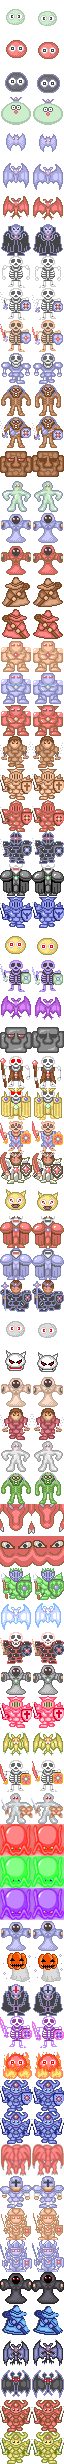
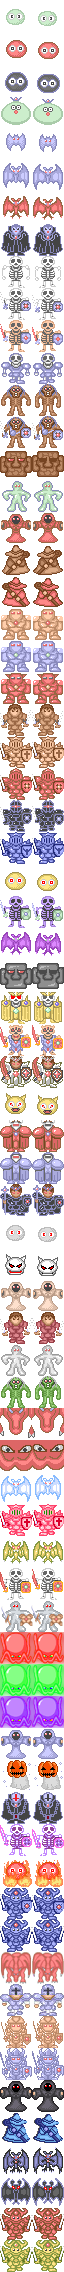
delete unused material 6

diff --git a/project/enemys.js b/project/enemys.js
@@ -13,7 +13,6 @@ var enemys_fcae963b_31c9_42b4_b48c_bb48d09f3f80 =
 	"zombie": {"name":"魔性人","hp":400,"atk":175,"def":70,"money":8,"exp":5,"point":0,"special":0},
 	"zombieKnight": {"name":"驯化魔性人","hp":550,"atk":275,"def":70,"money":12,"exp":5,"point":0,"special":0},
 	"rock": {"name":"有生土墙","hp":500,"atk":200,"def":170,"money":10,"exp":15,"point":0,"special":[]},
-	"bluePriest": {"name":"初级法师","hp":100,"atk":120,"def":0,"money":3,"exp":0,"point":1,"special":[9]},
 	"redPriest": {"name":"狂暴施咒者","hp":450,"atk":280,"def":100,"money":19,"exp":12,"point":0,"special":[1,2,22],"damage":1000},
 	"brownWizard": {"name":"蹩脚巫师","hp":100,"atk":35,"def":30,"money":5,"exp":3,"point":0,"special":[2],"value":null,"range":2},
 	"redWizard": {"name":"熟练巫师","hp":220,"atk":65,"def":45,"money":8,"exp":5,"point":0,"special":[2],"value":200,"zoneSquare":true},
@@ -25,7 +24,6 @@ var enemys_fcae963b_31c9_42b4_b48c_bb48d09f3f80 =
 	"goldSlime": {"name":"金史莱姆","hp":450,"atk":120,"def":85,"money":12,"exp":5,"point":0,"special":[]},
 	"poisonSkeleton": {"name":"量产型·追魂","hp":500,"atk":350,"def":50,"money":0,"exp":20,"point":0,"special":[2]},
 	"poisonBat": {"name":"毒牙蝙蝠","hp":550,"atk":180,"def":25,"money":10,"exp":5,"point":0,"special":[12]},
-	"skeletonPriest": {"name":"骷髅法师","hp":100,"atk":100,"def":0,"money":0,"exp":0,"point":0,"special":18,"value":20},
 	"skeletonKing": {"name":"鬼帝","hp":9800,"atk":835,"def":445,"money":50,"exp":2000,"point":0,"special":[20]},
 	"goldHornSlime": {"name":"稀有金属史莱姆","hp":650,"atk":23,"def":40,"money":25,"exp":0,"point":0,"special":[3]},
 	"silverSlime": {"name":"疫病化身","hp":100,"atk":10,"def":10,"money":0,"exp":50,"point":0,"special":[12,13,14]},
@@ -46,12 +44,8 @@ var enemys_fcae963b_31c9_42b4_b48c_bb48d09f3f80 =
 	"skeletonKnight": {"name":"骷髅将军","hp":700,"atk":205,"def":60,"money":20,"exp":20,"point":0,"special":0,"afterBattle":null},
 	"ironRock": {"name":"有生铁壁","hp":60,"atk":320,"def":360,"money":25,"exp":20,"point":0,"special":[3]},
 	"yellowPriest": {"name":"恶念施咒者","hp":1000,"atk":220,"def":200,"money":0,"exp":40,"point":0,"special":[2,17]},
-	"greenKnight": {"name":"强盾骑士","hp":0,"atk":0,"def":0,"money":0,"exp":0,"point":0,"special":0},
-	"devilKnight": {"name":"恶灵骑士","hp":150,"atk":100,"def":50,"money":0,"exp":0,"point":0,"special":[1,5,7,8]},
-	"grayPriest": {"name":"混沌法师","hp":0,"atk":0,"def":0,"money":0,"exp":0,"point":0,"special":0},
 	"ghostSoldier": {"name":"铠甲骷髅人","hp":100,"atk":40,"def":60,"money":6,"exp":4,"point":0,"special":[]},
 	"frostBat": {"name":"栖暗蝙蝠","hp":500,"atk":320,"def":100,"money":15,"exp":5,"point":0,"special":[1]},
-	"blackKing": {"name":"黑衣魔王","hp":1000,"atk":500,"def":0,"money":1000,"exp":1000,"point":0,"special":0,"notBomb":true},
 	"redKing": {"name":"魔王","hp":7000,"atk":950,"def":750,"money":0,"exp":1500,"point":0,"special":0},
 	"blueKing": {"name":"魔王近卫","hp":1925,"atk":650,"def":500,"money":20,"exp":20,"point":0,"special":[2]},
 	"E342": {"name":"超魔导武者","hp":1172,"atk":550,"def":300,"money":25,"exp":20,"point":0,"special":[2,9]},

diff --git a/project/icons.js b/project/icons.js
@@ -94,70 +94,64 @@ var icons_4665ee12_3a1f_44a4_bea3_0fccba634dc1 =
 		"zombie": 12,
 		"zombieKnight": 13,
 		"rock": 14,
-		"bluePriest": 16,
-		"redPriest": 17,
-		"brownWizard": 18,
-		"redWizard": 19,
-		"swordsman": 23,
-		"yellowKnight": 24,
-		"redKnight": 25,
-		"darkKnight": 26,
-		"blueKnight": 28,
-		"goldSlime": 29,
-		"poisonSkeleton": 30,
-		"poisonBat": 31,
-		"skeletonPriest": 33,
-		"skeletonKing": 34,
-		"goldHornSlime": 37,
-		"silverSlime": 41,
-		"whiteHornSlime": 42,
-		"redSwordsman": 44,
-		"poisonZombie": 46,
-		"octopus": 48,
+		"redPriest": 16,
+		"brownWizard": 17,
+		"redWizard": 18,
+		"swordsman": 22,
+		"yellowKnight": 23,
+		"redKnight": 24,
+		"darkKnight": 25,
+		"blueKnight": 26,
+		"goldSlime": 27,
+		"poisonSkeleton": 28,
+		"poisonBat": 29,
+		"skeletonKing": 31,
+		"goldHornSlime": 34,
+		"silverSlime": 38,
+		"whiteHornSlime": 39,
+		"redSwordsman": 41,
+		"poisonZombie": 43,
+		"octopus": 45,
 		"skeletonWarrior": 9,
-		"whiteSlimeman": 45,
+		"whiteSlimeman": 42,
 		"slimeman": 15,
-		"yellowGateKeeper": 20,
-		"blueGateKeeper": 21,
-		"redGateKeeper": 22,
-		"magicMaster": 40,
-		"devilWarrior": 36,
-		"dragon": 47,
-		"skeletonKnight": 35,
-		"ironRock": 32,
-		"yellowPriest": 43,
-		"greenKnight": 49,
-		"frostBat": 50,
-		"devilKnight": 51,
-		"grayPriest": 52,
+		"yellowGateKeeper": 19,
+		"blueGateKeeper": 20,
+		"redGateKeeper": 21,
+		"magicMaster": 37,
+		"devilWarrior": 33,
+		"dragon": 44,
+		"skeletonKnight": 32,
+		"ironRock": 30,
+		"yellowPriest": 40,
+		"frostBat": 46,
 		"ghostSoldier": 11,
-		"blackKing": 27,
-		"redKing": 38,
-		"blueKing": 39,
-		"E342": 53,
-		"E384": 54,
-		"E389": 55,
-		"E395": 56,
-		"E457": 57,
-		"E467": 58,
-		"E468": 59,
-		"E553": 60,
-		"E558": 61,
-		"E572": 62,
-		"E679": 63,
-		"E737": 64,
-		"E763": 65,
-		"E767": 66,
-		"E861": 67,
-		"E874": 68,
-		"E887": 69,
-		"E888": 70,
-		"E956": 71,
-		"E1078": 72,
-		"E1133": 73,
-		"E1141": 74,
-		"E1167": 75,
-		"E1168": 76
+		"redKing": 35,
+		"blueKing": 36,
+		"E342": 47,
+		"E384": 48,
+		"E389": 49,
+		"E395": 50,
+		"E457": 51,
+		"E467": 52,
+		"E468": 53,
+		"E553": 54,
+		"E558": 55,
+		"E572": 56,
+		"E679": 57,
+		"E737": 58,
+		"E763": 59,
+		"E767": 60,
+		"E861": 61,
+		"E874": 62,
+		"E887": 63,
+		"E888": 64,
+		"E956": 65,
+		"E1078": 66,
+		"E1133": 67,
+		"E1141": 68,
+		"E1167": 69,
+		"E1168": 70
 	},
 	"enemy48": {
 		"angel": 0

diff --git a/project/maps.js b/project/maps.js
@@ -88,7 +88,6 @@ var maps_90f36752_8815_4be8_b32b_d7fad1d0542e =
 	"214": {"cls":"enemys","id":"zombieKnight"},
 	"215": {"cls":"enemys","id":"rock"},
 	"216": {"cls":"enemys","id":"slimeman"},
-	"217": {"cls":"enemys","id":"bluePriest"},
 	"218": {"cls":"enemys","id":"redPriest"},
 	"219": {"cls":"enemys","id":"brownWizard"},
 	"220": {"cls":"enemys","id":"redWizard"},
@@ -99,13 +98,11 @@ var maps_90f36752_8815_4be8_b32b_d7fad1d0542e =
 	"226": {"cls":"enemys","id":"yellowKnight"},
 	"227": {"cls":"enemys","id":"redKnight"},
 	"228": {"cls":"enemys","id":"darkKnight"},
-	"229": {"cls":"enemys","id":"blackKing"},
 	"232": {"cls":"enemys","id":"blueKnight"},
 	"233": {"cls":"enemys","id":"goldSlime"},
 	"234": {"cls":"enemys","id":"poisonSkeleton"},
 	"235": {"cls":"enemys","id":"poisonBat"},
 	"236": {"cls":"enemys","id":"ironRock"},
-	"237": {"cls":"enemys","id":"skeletonPriest"},
 	"238": {"cls":"enemys","id":"skeletonKing"},
 	"240": {"cls":"enemys","id":"skeletonKnight"},
 	"242": {"cls":"enemys","id":"devilWarrior"},
@@ -122,10 +119,7 @@ var maps_90f36752_8815_4be8_b32b_d7fad1d0542e =
 	"257": {"cls":"enemys","id":"dragon"},
 	"258": {"cls":"enemys","id":"octopus"},
 	"261": {"cls":"enemy48","id":"angel"},
-	"270": {"cls":"enemys","id":"greenKnight"},
 	"277": {"cls":"enemys","id":"frostBat"},
-	"278": {"cls":"enemys","id":"devilKnight"},
-	"279": {"cls":"enemys","id":"grayPriest"},
 	"300": {"cls":"terrains","id":"ground"},
 	"301": {"cls":"npcs","id":"N301"},
 	"305": {"cls":"terrains","id":"grass"},
